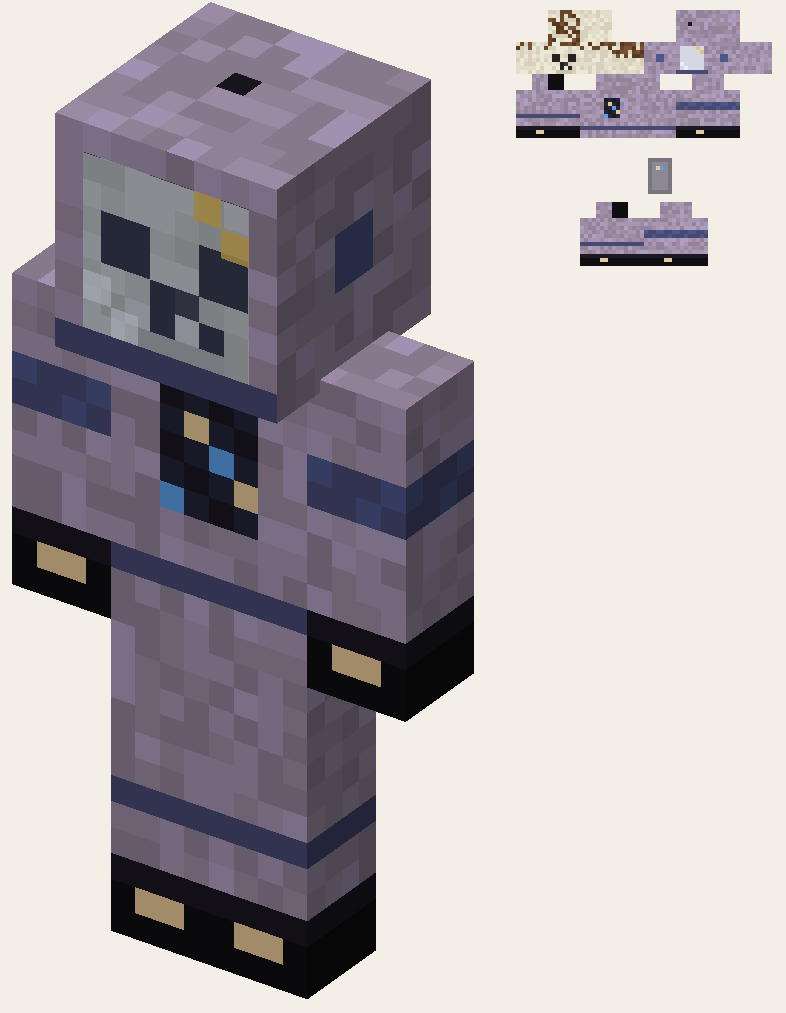
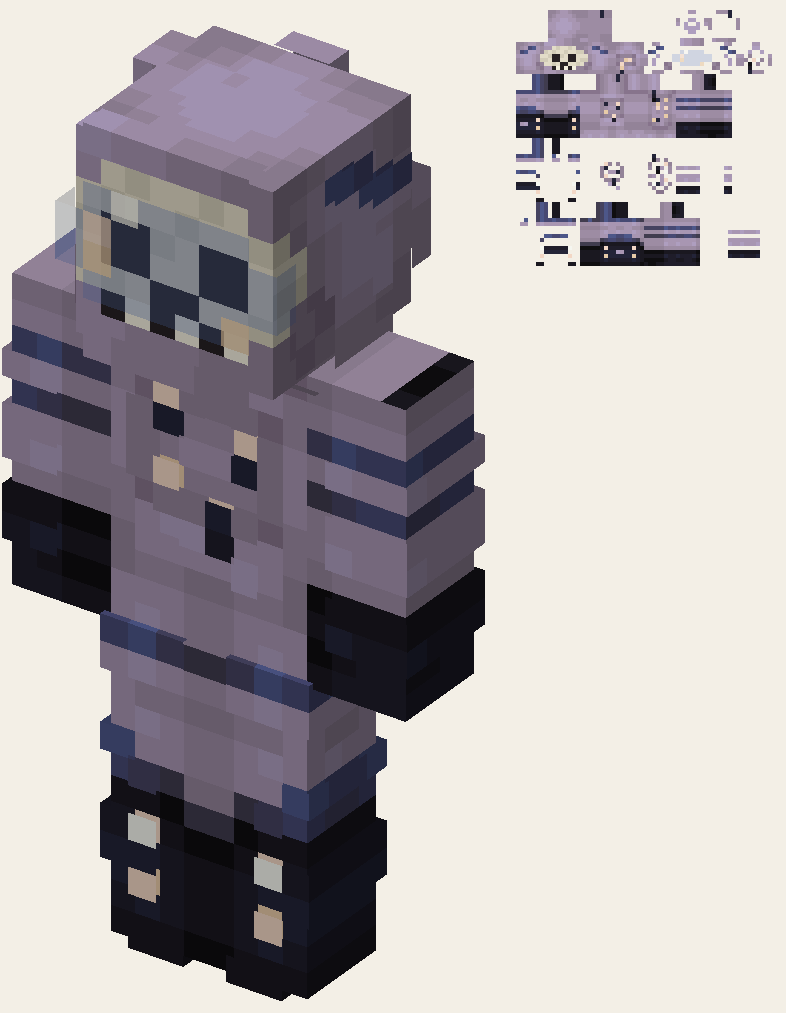
Moon concept: the boss wields a giant mortar staff; jade is green lapis; moon rabbits tame or bundle into cages; the lost spaceman uses the supplied suit skin with only the face changed
Claude-Session: https://claude.ai/code/session_01M5QtgiQGYPBXfdb72XCowG

diff --git a/tools/spaceman_skin.py b/tools/spaceman_skin.py
@@ -1,103 +1,46 @@
 """
-The Lost Spaceman's skin (64x64, the standard player layout): a lavender-grey spacesuit with navy trim, black gloves
-and boots, and a chest panel; under a helmet with a tinted glass visor, a dead Steve's skull.
+The Lost Spaceman's skin: the spacesuit skin in tools/templates/lost_spaceman_base.png, unchanged except the face.
+The dark visor becomes see-through tinted glass (like stained glass) on the outer layer, and behind it, on the head
+layer, a dead Steve's skull.
   python3 tools/spaceman_skin.py  ->  docs/lost_spaceman_skin.png and docs/lost_spaceman.png (render)
 """
-import os, sys, random
+import os, sys
 from PIL import Image
 sys.path.insert(0, os.path.dirname(__file__))
+HERE = os.path.dirname(os.path.abspath(__file__))
 
-R_ = random.Random(7)
-SUIT = [(168, 150, 178), (157, 140, 163), (147, 131, 152), (174, 158, 191)]
-NAVY, NAVY2 = (71, 73, 115), (77, 87, 137)
-DARK, DARK2, BLACK = (26, 24, 32), (35, 36, 56), (15, 14, 16)
-TAN, GOLD, GREY = (232, 200, 150), (222, 186, 96), (120, 116, 128)
-BONE = [(226, 220, 200), (214, 208, 188), (236, 232, 214)]
-HAIR = [(106, 70, 40), (86, 56, 32), (120, 82, 50)]
-SOCKET = (40, 34, 36)
+BONE, BONE2, SOCKET, TOOTH = (226, 220, 200), (210, 204, 184), (40, 34, 36), (242, 238, 222)
+GLASS = (90, 120, 190, 80)
 
-def suit(): return SUIT[R_.randrange(3)] if R_.random() < .85 else SUIT[3]
-img = Image.new("RGBA", (64, 64), (0, 0, 0, 0)); px = img.load()
+def is_visor(c): return c[3] > 0 and (sum(c[:3]) < 240 or c[0] > 200)        # the dark visor and its gold glints
 
-def faces(u, v, w, h, d):
-    """Regions of a box's faces in the skin: name -> (x, y, w, h)."""
-    return {"top": (u + d, v, w, d), "bottom": (u + d + w, v, w, d), "right": (u, v + d, d, h),
-            "front": (u + d, v + d, w, h), "left": (u + d + w, v + d, d, h), "back": (u + 2 * d + w, v + d, w, h)}
+def skull_pixel(x, y):
+    """The skull's face on the head's front, 8x8."""
+    if y in (3, 4) and x in (1, 2, 5, 6): return SOCKET                         # eye sockets
+    if y == 5 and x in (3, 4): return SOCKET                                    # nose hole
+    if y == 6 and 1 <= x <= 6: return SOCKET if x % 2 else TOOTH                # teeth
+    return BONE if (x + y) % 3 else BONE2
 
-def paint(region, f):
-    x0, y0, w, h = region
-    for y in range(h):
-        for x in range(w):
-            c = f(x, y, w, h)
-            if c: px[x0 + x, y0 + y] = c if len(c) == 4 else c + (255,)
-
-def limb(u, v, glove=False, boot=False, front_dots=False):
-    for name, reg in faces(u, v, 4, 12, 4).items():
-        def f(x, y, w, h, name=name):
-            if name in ("top", "bottom"): return BLACK if (boot and name == "bottom") else suit()
-            if y in (3, 4) and not boot: return NAVY if (x + y) % 3 else NAVY2           # shoulder band
-            if boot and y == 6: return NAVY                                                # knee band
-            if (glove or boot) and y >= 9:
-                if front_dots and name == "front" and y == 10 and x in (1, 2): return TAN
-                return BLACK if y > 9 else DARK
-            return suit()
-        paint(reg, f)
-
-# head: a dead Steve's skull, a few tufts of his hair left
-for name, reg in faces(0, 0, 8, 8, 8).items():
-    def f(x, y, w, h, name=name):
-        bone = BONE[R_.randrange(3)]
-        if name == "top": return HAIR[R_.randrange(3)] if R_.random() < .55 else bone
-        if name == "back": return HAIR[R_.randrange(3)] if (y < 4 and R_.random() < .7) else bone
-        if name in ("left", "right"): return HAIR[R_.randrange(3)] if (y < 2 and R_.random() < .6) else bone
-        if name == "front":
-            if y == 0 and R_.random() < .6: return HAIR[R_.randrange(3)]
-            if y in (3, 4) and x in (1, 2, 5, 6): return SOCKET                            # eye sockets
-            if y == 5 and x in (3, 4): return SOCKET if x == 3 else (60, 52, 52)          # nose hole
-            if y == 6 and 2 <= x <= 5: return SOCKET if x % 2 else (240, 236, 220)        # teeth
-            if y == 7 and 2 <= x <= 5: return (200, 194, 176)
-        return bone
-    paint(reg, f)
-
-# helmet (hat layer): suit all round, a tinted glass visor in front with a glint
-for name, reg in faces(32, 0, 8, 8, 8).items():
-    def f(x, y, w, h, name=name):
-        if name == "front":
-            if 1 <= x <= 6 and 1 <= y <= 6:
-                if (x, y) in ((5, 1), (6, 2)): return GOLD + (230,)
-                if (x, y) in ((1, 5), (2, 6)): return (220, 230, 255, 170)
-                return (90, 120, 190, 70)                                                   # stained-glass tint
-            return NAVY if y == 7 else suit()
-        if name == "top": return DARK if (x, y) == (3, 3) else suit()
-        if name in ("left", "right") and y in (3, 4) and x in (3, 4): return NAVY2          # helmet bolts
-        return suit()
-    paint(reg, f)
-
-# body: suit with a chest control panel and a belt
-for name, reg in faces(16, 16, 8, 12, 4).items():
-    def f(x, y, w, h, name=name):
-        if name == "front":
-            if 2 <= x <= 5 and 2 <= y <= 6:
-                if (x, y) in ((3, 3), (5, 5)): return TAN
-                if (x, y) in ((4, 4), (2, 6)): return (90, 160, 230)
-                return DARK2 if (x + y) % 2 else DARK
-            if y == 9: return NAVY
-        if name in ("left", "right", "back") and y == 9: return NAVY
-        return suit()
-    paint(reg, f)
-# jacket layer: the air pack on the back
-x0, y0, w, h = faces(16, 32, 8, 12, 4)["back"]
-for y in range(1, 10):
-    for x in range(1, 7): px[x0 + x, y0 + y] = (GREY if (x in (1, 6) or y in (1, 9)) else (140, 136, 150)) + (255,)
-px[x0 + 3, y0 + 3] = TAN + (255,); px[x0 + 4, y0 + 3] = (90, 160, 230, 255)
-
-limb(40, 16, glove=True, front_dots=True); limb(32, 48, glove=True, front_dots=True)   # arms
-limb(0, 16, boot=True, front_dots=True); limb(16, 48, boot=True, front_dots=True)      # legs
+def make():
+    img = Image.open(os.path.join(HERE, "templates", "lost_spaceman_base.png")).convert("RGBA"); px = img.load()
+    # head layer: front face (8,8) and the visor's wrap onto the sides (right face 0,8 / left face 16,8)
+    for y in range(8):
+        for x in range(8):
+            if is_visor(px[8 + x, 8 + y]): px[8 + x, 8 + y] = skull_pixel(x, y) + (255,)
+            if is_visor(px[0 + x, 8 + y]): px[0 + x, 8 + y] = (BONE if y % 2 else BONE2) + (255,)
+            if is_visor(px[16 + x, 8 + y]): px[16 + x, 8 + y] = (BONE if y % 2 else BONE2) + (255,)
+    # outer layer: the visor turns to tinted glass; its gold glints stay, a little see-through
+    for (x0, y0) in ((40, 8), (32, 8), (48, 8)):
+        for y in range(8):
+            for x in range(8):
+                c = px[x0 + x, y0 + y]
+                if is_visor(c): px[x0 + x, y0 + y] = (c[:3] + (200,)) if c[0] > 200 else GLASS
+    return img
 
 if __name__ == "__main__":
     import render_iso as R
-    docs = os.path.join(os.path.dirname(os.path.abspath(__file__)), "..", "docs")
-    path = os.path.join(docs, "lost_spaceman_skin.png"); img.save(path)
+    docs = os.path.join(HERE, "..", "docs")
+    img = make(); path = os.path.join(docs, "lost_spaceman_skin.png"); img.save(path)
     r = R.render("player", path[:-4], 3.0)
     big = img.resize((256, 256), Image.NEAREST)
     out = Image.new("RGBA", (r.width + 300, max(r.height, 280)), (243, 239, 230, 255))

diff --git a/tools/moon_concept.py b/tools/moon_concept.py
@@ -28,8 +28,17 @@ def bricks(base, mortar, seed=2):
 
 DUST = noise((200, 198, 190), 12, 1, [((170, 168, 160), 20)])
 MOONSTONE = bricks((214, 214, 222), (150, 150, 162), 3)
-JADE = noise((62, 168, 118), 16, 4, [((140, 220, 180), 18), ((30, 110, 72), 14)])
-JADE_ORE = noise((200, 198, 190), 10, 5, [((62, 168, 118), 22), ((140, 220, 180), 8)])
+def jade_from_lapis(name):
+    """Vanilla's lapis texture, its blues turned to jade greens (so jade reads as green lapis)."""
+    im = tex(name).copy(); px = im.load()
+    for y in range(16):
+        for x in range(16):
+            r, g, b, a = px[x, y]
+            if b > r + 18 and b > g:                       # a lapis-blue pixel
+                px[x, y] = (int(r * 0.7 + b * 0.12), min(255, int(b * 0.92 + 10)), int(g * 0.75 + b * 0.18), a)
+    return im
+JADE = jade_from_lapis("lapis_block")
+JADE_ORE = jade_from_lapis("lapis_ore")
 METEOR = noise((48, 46, 58), 10, 6, [((230, 230, 255), 7), ((120, 150, 255), 6)])
 METEOR_ORE = noise((70, 66, 64), 12, 7, [((255, 150, 60), 10), ((255, 210, 120), 6)])
 SILVER = noise((214, 214, 226), 10, 8, [((190, 190, 206), 18)])
@@ -93,16 +102,16 @@ def great_rabbit_detailed():
     # crown
     m.box(GOLD, (-6, -4, -7), (12, 2, 10))
     for x in (-6, -2, 2): m.box(GOLD, (x, -7, -7), (2, 3, 1)); m.box(JADE, (x + 0.5, -6, -7.4), (1, 1, 0.4))
-    # forearms reaching forward to grip the pestle
+    # forearms gripping the mortar staff, its weapon
     for sgn in (-1, 1):
         a = m.part([sgn * 7, 16, -3], (-1.15, sgn * 0.45, 0))
         m.box(SILVER, (-2, -1, -2), (4, 13, 4), part=a); m.box(WHITE_FUR, (-2.5, 11, -2.5), (5, 4, 5), part=a)
-    p = m.part([0, 6, -15], (0.15, 0, 0)); m.box(WOOD, (-1.5, -14, -1.5), (3, 32, 3), part=p); m.box(WOOD, (-3, 18, -3), (6, 6, 6), part=p)
-    # the great mortar
-    for (w, d) in ((22, 14), (14, 22)): m.box(STONE_M, (-w / 2, 26, -24 - d / 2), (w, 18, d))
-    m.box(MOON_GLOW, (-9, 25.4, -33), (18, 0.6, 18))                                                                    # glowing dust inside
-    for (x, z, w, d) in ((-11, -35, 22, 2), (-11, -15, 22, 2), (-11, -35, 2, 22), (9, -35, 2, 22)):                 # jade rim
-        m.box(JADE, (x, 24, z), (w, 2, d))
+    st = m.part([0, 20, -15], (0.35, 0, -0.55))                                                       # the giant mortar staff, raised
+    m.box(WOOD, (-2, -30, -2), (4, 52, 4), part=st); m.box(METEOR, (-2.5, 18, -2.5), (5, 4, 5), part=st)   # haft, meteor-iron butt
+    for (w, d) in ((16, 11), (11, 16)): m.box(STONE_M, (-w / 2, -44, -d / 2), (w, 14, d), part=st)          # the mortar head
+    for (x, z, w, d) in ((-8, -8, 16, 2), (-8, 6, 16, 2), (-8, -8, 2, 16), (6, -8, 2, 16)): m.box(JADE, (x, -45.5, z), (w, 2, d), part=st)
+    m.box(MOON_GLOW, (-6, -45, -6), (12, 0.6, 12), part=st)
+    for y in (-36, -32): m.box(JADE, (-8.2, y, -5.6), (16.4, 1.2, 11.2), part=st)                    # jade bands round the head
     return m
 
 def moon_rabbit(): m = Model(1); rabbit(m); return m
@@ -171,13 +180,14 @@ def crown():
 def cake(): m = Model(12); m.box(CAKE, (-5, 18, -5), (10, 6, 10)); m.box(JADE, (-1, 17, -1), (2, 1, 2)); return m
 def ingot(): m = Model(13); m.box(METEOR, (-5, 20, -2.5), (10, 3, 5)); m.box(METEOR, (-4, 19, -1.5), (8, 1, 3)); return m
 
-CREATURES = [("Moon Rabbit", "shy and high-hopping; tame with moon herbs", moon_rabbit, 2.4),
+CREATURES = [("Moon Rabbit", "tame it, or bundle it home for a cage", moon_rabbit, 2.4),
              ("Dust Drifter", "floats over the craters, glowing softly", drifter, 2.4),
              ("Crater Crab", "hides in moon dust and pinches", crab, 2.4),
              ("Lantern Moth", "glows, and comes to light", moth, 2.4),
              ("Lost Spaceman", "a dead Steve in an old spacesuit; walks the craters at night", walker, 2.0)]
 THINGS = [("Jade Ore", "rare, deep in mountains and lush caves", lambda: cube(JADE_ORE), 1.2),
-          ("Block of Jade", "the portal frame material", lambda: cube(JADE), 1.2),
+          ("Block of Jade", "green lapis; the portal frame material", lambda: cube(JADE), 1.2),
+          ("Jade Portal", "nether-portal sized; lit with an eye of ender", portal, 0.42),
           ("Moonstone Bricks", "light building stone", lambda: cube(MOONSTONE), 1.2),
           ("Moon Dust", "light; for gliding gear", lambda: cube(DUST), 1.2),
           ("Meteor Iron Ore", "dug from fresh craters", lambda: cube(METEOR_ORE), 1.2),
@@ -229,16 +239,15 @@ def sheet(out):
     W = scene.width + 80
     cw1 = (W - 60) // 3; ch1 = max(i.height for _, _, i in crs) + 90
     cw2 = (W - 60) // 5; ch2 = max(i.height for _, _, i in ths) + 90
-    H = 160 + scene.height + 60 + big.height + 120 + 2 * ch1 + 60 + 2 * ch2 + 40
+    H = 160 + scene.height + 60 + big.height + 120 + 2 * ch1 + 60 + 3 * ch2 + 40
     c = Image.new("RGB", (W, H), BG); d = ImageDraw.Draw(c)
     d.text((40, 36), "The Hollow Moon: concept art", font=R.font(46, True), fill=INK)
     d.text((42, 96), "The actual moon, reached through a portal of jade blocks lit with an eye of ender under a full moon. Low gravity, the Earth in the sky.", font=R.font(20), fill=SUB)
     y = 140; c.paste(scene, (40, y)); y += scene.height + 40
     # boss with the portal beside it
-    c.paste(big, (60, y), big); c.paste(port, (W - port.width - 80, y + big.height - port.height), port)
-    d.text((60 + big.width // 2, y + big.height + 24), "The Great Moon Rabbit (boss)", font=R.font(28, True), fill=INK, anchor="mm")
-    d.text((60 + big.width // 2, y + big.height + 56), "pounds its mortar in the jade temple; slams, kits, rice-cake bombs, a frenzy at half health", font=R.font(18), fill=SUB, anchor="mm")
-    d.text((W - port.width // 2 - 80, y + big.height + 24), "The jade portal (nether-portal sized)", font=R.font(28, True), fill=INK, anchor="mm")
+    c.paste(big, ((W - big.width) // 2, y), big)
+    d.text((W // 2, y + big.height + 24), "The Great Moon Rabbit (boss)", font=R.font(28, True), fill=INK, anchor="mm")
+    d.text((W // 2, y + big.height + 56), "swings a giant mortar staff in the jade temple; slams, kits, rice-cake bombs, a frenzy at half health", font=R.font(18), fill=SUB, anchor="mm")
     y += big.height + 100
     for k, (n, s, im) in enumerate(crs):
         x = 30 + (k % 3) * cw1; base = y + (k // 3) * ch1 + ch1 - 70

diff --git a/ROADMAP.md b/ROADMAP.md
@@ -235,7 +235,7 @@ something back to the overworld, so it's worth the trip. All in the same vanilla
 
   ![Hollow Moon concept art](docs/moon_concept.png)
 
-  - **Getting there:** jade is a new rare ore, found deep in mountains and lush caves. Nine jade make a Block of Jade.
+  - **Getting there:** jade is a new rare ore, found deep in mountains and lush caves. Nine jade make a Block of Jade, a green cousin of the lapis block.
     Build a frame of jade blocks the size of a nether portal (4 wide by 5 tall, around a 2 by 3 opening), light it with an eye of ender under a full moon, and step through.
   - **The land:**
     - low gravity (big floaty jumps, slow falls)
@@ -245,8 +245,8 @@ something back to the overworld, so it's worth the trip. All in the same vanilla
     - the real Earth hanging huge in a black sky, drawn Minecraft-style: blocky blue oceans, green and tan
       continents, white cloud bands, slowly turning and lit from one side like the moon is in ours
   - **Creatures:**
-    - **Moon rabbits:** long-eared, silvery, and they hop very high. They're shy, and you can tame them with moon
-      herbs.
+    - **Moon rabbits:** long-eared, silvery, and they hop very high. They're shy. Tame one with moon herbs and it
+      follows you home, or scoop it up in a bundle (4 to a bundle) and keep it in a cage like the chipmunks.
     - **Dust drifters:** jellyfish-like things that float over the craters.
     - **Crater crabs:** they hide in moon dust and pinch.
     - **Lantern moths:** they glow and come to light.
@@ -265,14 +265,14 @@ something back to the overworld, so it's worth the trip. All in the same vanilla
     bound with meteor iron, makes **Gravity Wells**: blocks that set a low-gravity
     field around them back on Earth. That means floaty jumps, slow falls and items that drift instead of drop, for
     sky bridges, safe drops, jump pads, low-gravity arenas and parkour. Nothing else gives it.
-  - **The boss: the Great Moon Rabbit.** A giant rabbit that pounds a mortar and pestle in the heart of the
-    jade temple, as in the old moon-rabbit legends. It leaps around the arena:
+  - **The boss: the Great Moon Rabbit.** A giant crowned rabbit in the heart of the jade temple, wielding a
+    giant mortar staff (a stone mortar on a long haft) as its weapon, a nod to the old moon-rabbit legends. It leaps around the arena:
     - Ground slams that throw you up in the low gravity.
     - It summons moon-rabbit kits.
     - It throws glowing rice-cake bombs.
     - At half health it goes into a frenzy.
     - Beat it for its **jade crown** and the **Moon Mortar**, a one-of-a-kind heavy weapon in the spirit of the
-      mace: the rabbit's great stone mortar on a pestle haft.
+      mace: the rabbit's own mortar staff, shrunk to fit your hands.
       - **Pound:** a ground slam that throws nearby mobs up into a few seconds of moon gravity, floating and helpless.
       - **Grind:** each hit on a floating target lands harder.
       - **Mooncharge:** like the mace, it hits harder the farther you fall, and in low gravity you can chain slams.
